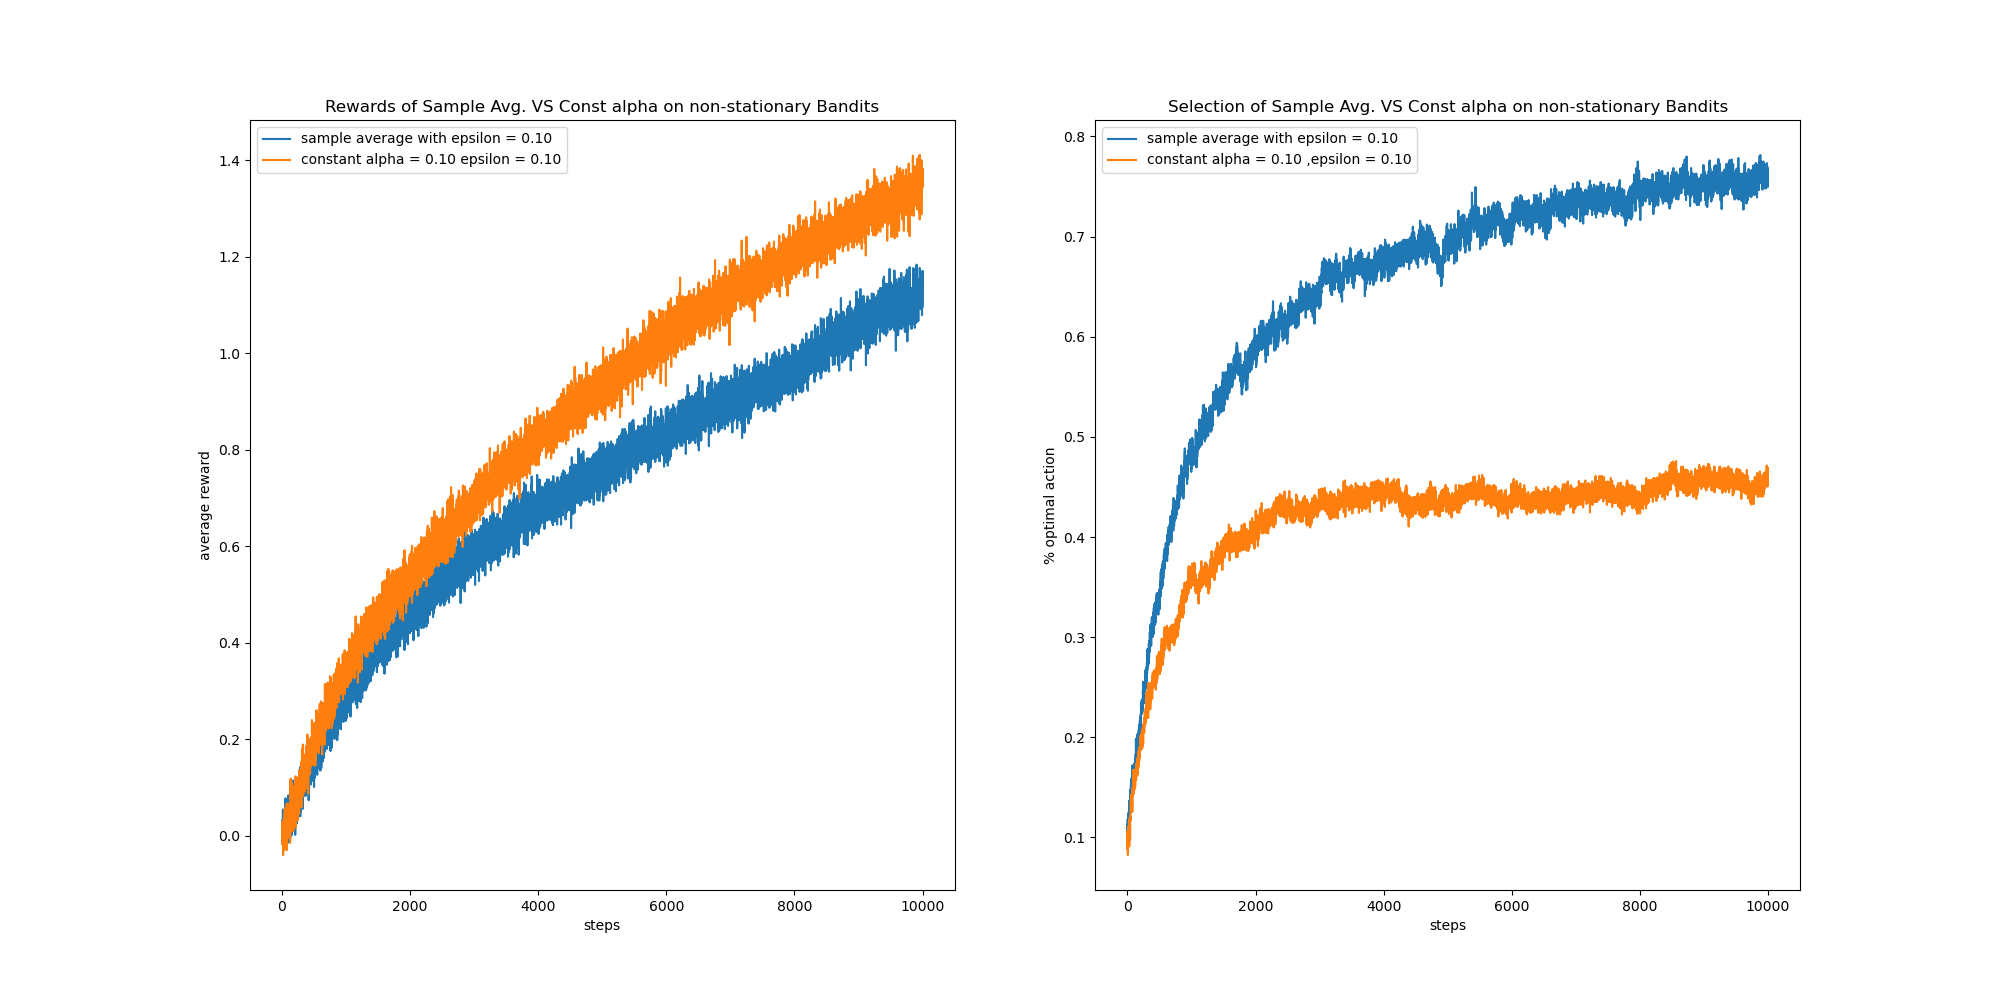
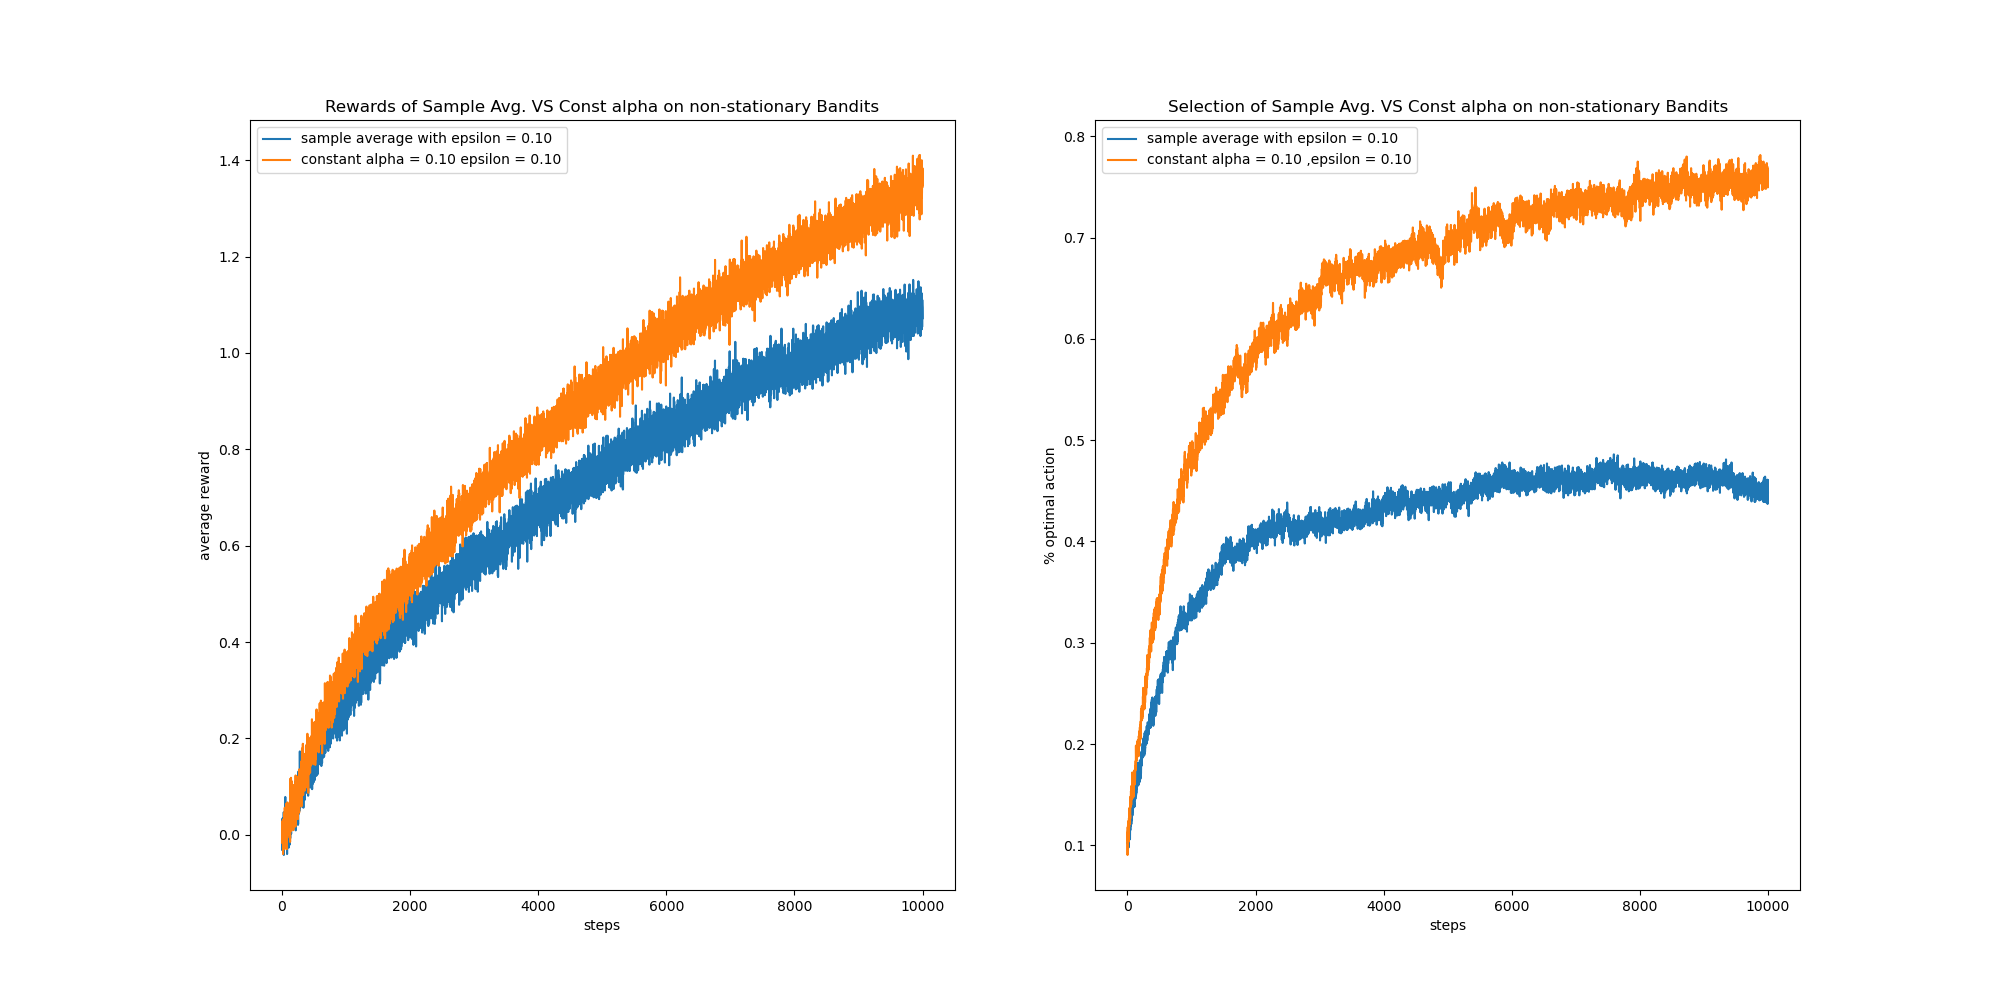
fixed bug of wrongly swapped data in exerices_2_5_SIMR.png.

diff --git a/chapter2/exercise_2_5_SIMR.py b/chapter2/exercise_2_5_SIMR.py
@@ -32,24 +32,34 @@ def exercise_2_2():
     # The alpha used in constant step-size setting.
     step_size = 0.1
 
-    np.random.seed(0)
-    start_time = time.time()
-    best_action_counts_sa, rewards_sa = single_iteration_multi_run(iterations, runs, k_arms, epsilon=epsilon)
-    end_time = time.time()
-    print("SIMR sample-average time elapsed: ", end_time - start_time)
+    new_experiment = False
 
-    np.save("../data/exercise_2_5_SIMR_epsilon_0-1_B.npy", best_action_counts_sa)
-    np.save("../data/exercise_2_5_SIMR_epsilon_0-1_R.npy", rewards_sa)
+    if new_experiment:
+        np.random.seed(0)
+        start_time = time.time()
+        best_action_counts_sa, rewards_sa = single_iteration_multi_run(iterations, runs, k_arms, epsilon=epsilon)
+        end_time = time.time()
+        print("SIMR sample-average time elapsed: ", end_time - start_time)
 
-    np.random.seed(0)
-    start_time = time.time()
-    best_action_counts_const, rewards_const = single_iteration_multi_run(iterations, runs, k_arms, step_size=step_size,
-                                                                         epsilon=epsilon)
-    end_time = time.time()
-    print("SIMR constant step size time elapsed: ", end_time - start_time)
+        np.save("../data/exercise_2_5_SIMR_epsilon_0-1_B.npy", best_action_counts_sa)
+        np.save("../data/exercise_2_5_SIMR_epsilon_0-1_R.npy", rewards_sa)
 
-    np.save("../data/exercise_2_5_SIMR_const_a_0-1_B.npy", best_action_counts_const)
-    np.save("../data/exercise_2_5_SIMR_const_a_0-1_R.npy", rewards_const)
+        np.random.seed(0)
+        start_time = time.time()
+        best_action_counts_const, rewards_const = single_iteration_multi_run(iterations, runs, k_arms,
+                                                                             step_size=step_size,
+                                                                             epsilon=epsilon)
+        end_time = time.time()
+        print("SIMR constant step size time elapsed: ", end_time - start_time)
+
+        np.save("../data/exercise_2_5_SIMR_const_a_0-1_B.npy", best_action_counts_const)
+        np.save("../data/exercise_2_5_SIMR_const_a_0-1_R.npy", rewards_const)
+
+    else:
+        best_action_counts_const = np.load("../data/exercise_2_5_SIMR_const_a_0-1_B.npy")
+        rewards_const = np.load("../data/exercise_2_5_SIMR_const_a_0-1_R.npy")
+        best_action_counts_sa = np.load("../data/exercise_2_5_SIMR_epsilon_0-1_B.npy")
+        rewards_sa = np.load("../data/exercise_2_5_SIMR_epsilon_0-1_R.npy")
 
     plt.figure(figsize=(20, 10))
     plt.subplot(1, 2, 1)
@@ -63,8 +73,8 @@ def exercise_2_2():
 
     plt.subplot(1, 2, 2)
     plt.title("Selection of Sample Avg. VS Const alpha on non-stationary Bandits")
-    plt.plot(best_action_counts_const, label='sample average with epsilon = %.02f' % epsilon)
-    plt.plot(best_action_counts_sa, label='constant alpha = %.02f ,epsilon = %.02f' % (step_size, epsilon))
+    plt.plot(best_action_counts_sa, label='sample average with epsilon = %.02f' % epsilon)
+    plt.plot(best_action_counts_const, label='constant alpha = %.02f ,epsilon = %.02f' % (step_size, epsilon))
     plt.xlabel('steps')
     plt.ylabel('% optimal action')
     plt.legend()
@@ -100,11 +110,13 @@ def single_iteration_multi_run(iterations=100, runs=20, k_arms=10, epsilon=None,
         # Why not just directly use argmax here?
         # If there are more than one options that are simultaneously max,
         # we still want to randomly choose among these options.
-        max_estimate_value = np.max(Q[run_range, :], axis=1, keepdims=True)
-        greedy_actions = np.ndarray(shape=(runs,))
-        for run in range(runs):
-            best_actions = np.where(Q[run, :] == max_estimate_value[run])[0]
-            greedy_actions[run] = np.random.choice(best_actions)
+
+        # max_estimate_value = np.max(Q[run_range, :], axis=1, keepdims=True)
+        # greedy_actions = np.ndarray(shape=(runs,))
+        # for run in range(runs):
+        #     best_actions = np.where(Q[run, :] == max_estimate_value[run])[0]
+        #     greedy_actions[run] = np.random.choice(best_actions)
+        greedy_actions = np.argmax(Q, axis=1)
 
         # Construct exploratory actions
         exploratory_actions = np.ndarray(shape=(runs,))

diff --git a/readme.md b/readme.md
@@ -34,7 +34,7 @@ Prepare plots like Figure 2.2 for an action-value method using sample averages, 
     self.q_true += np.random.normal(loc=0, scale=0.01, size=(self.k,))
     self.best_action = np.argmax(self.q_true)
     ```   
-    The constant step-size method outperformed the sample average method in terms of average return.                                                                                                                                                                                                                                                                                                                                                                                                                                                                                                                                                                                                                                                                                                                                                                                                                    
+    The constant step-size method outperformed the sample average method in terms of both average return and best action hit rate.                                                                                                                                                                                                                                                                                                                                                                                                                                                                                                                                                                                                                                                                                                                                                                                                                    
                                                                                                                                                                                                                                                                                                                                                                                                                                                                                                                                                                                                                                                                                                                                                                                                                   
    ![exercise 2.5](images/exercise_2_5.png)
 ### References

diff --git a/exercise_answers.md b/exercise_answers.md
@@ -58,7 +58,7 @@ Prepare plots like Figure 2.2 for an action-value method using sample averages, 
     self.q_true += np.random.normal(loc=0, scale=0.01, size=(self.k,))
     self.best_action = np.argmax(self.q_true)
     ```   
-    constant step size method outperformed the sample average method in terms of average return.  
+    The constant step-size method outperformed the sample average method in terms of both average return and best action hit rate.                                                                                                                                                                                                                                                                                                                                                                                                                                                                                                                                                                                                                                                                                                                                                                                                                    
     
     ![exercise 2.5](images/exercise_2_5.png)
     
